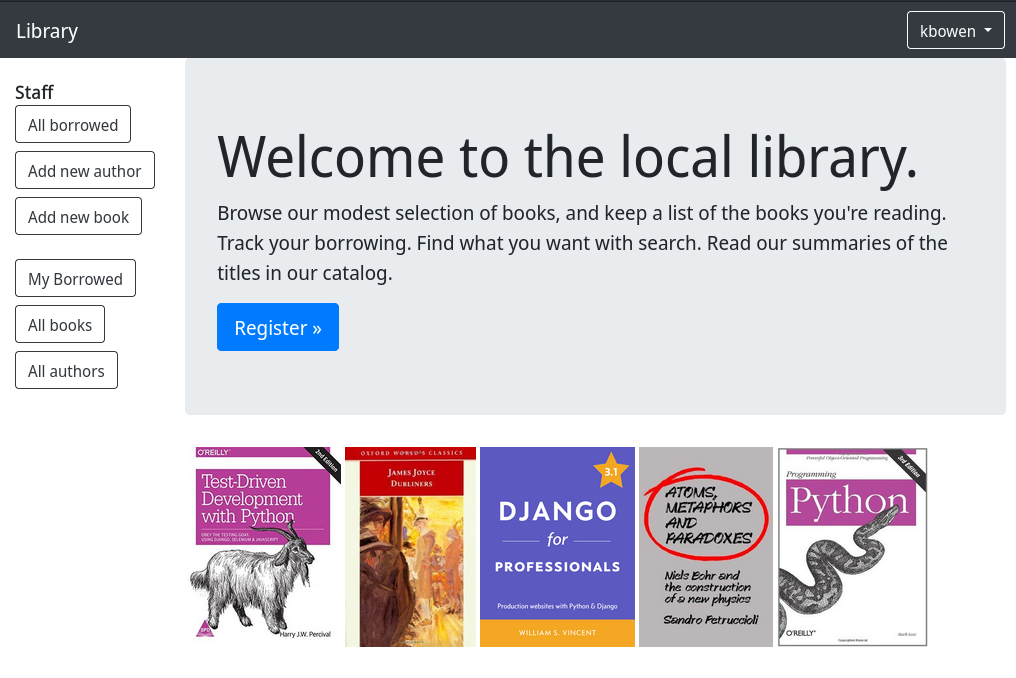
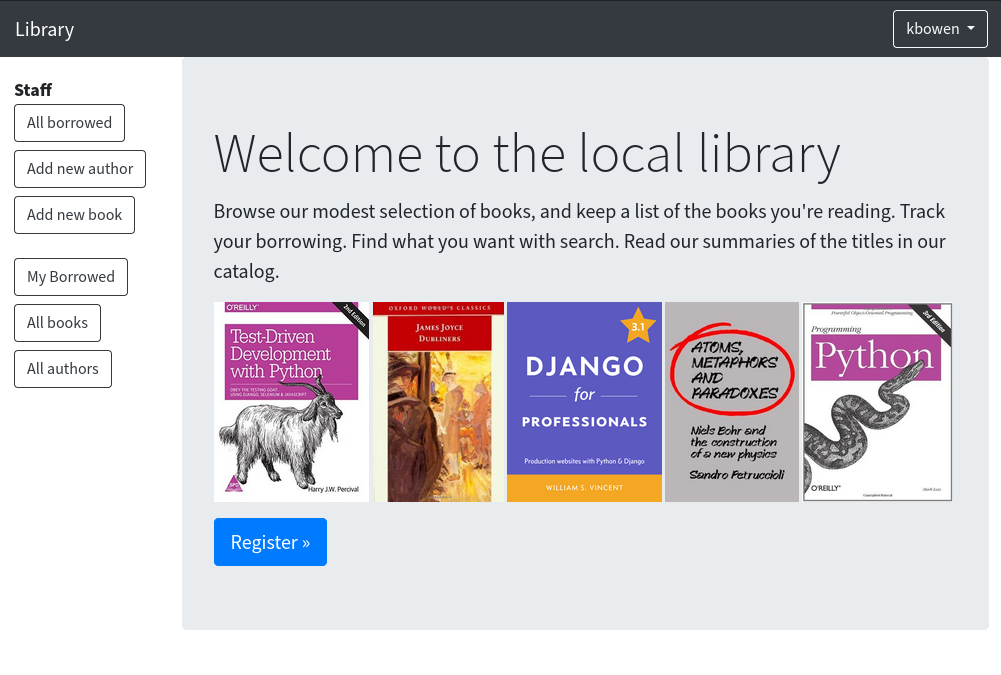
Add & link updated homepage image

diff --git a/README.md b/README.md
@@ -2,9 +2,10 @@
 
 ---
 ## Features
- -
- -
- -
+ - Add, update, and delete authors and books
+ - Borrow, renew, and return books
+ - Email verification for registration, password recovery
+ - Support for Social logon authentication (OAuth) (e.g. via GitHub)
 
 ### Installation
  - `git clone https://github.com/kevinbowen777/library.git`
@@ -19,7 +20,7 @@
 
 Home page
 ![Home
-Page](https://github.com/kevinbowen777/library/blob/master/images/library_homepage_staff.png)
+Page](https://github.com/kevinbowen777/library/blob/master/images/library_homepage_covers.png)
 
 Catalog Index
 ![Catalog index](https://github.com/kevinbowen777/library/blob/master/images/library_index_staff.png)
